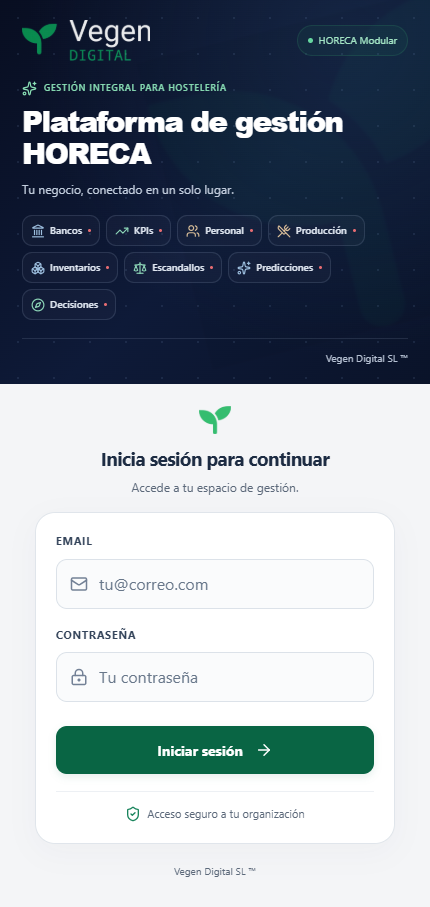
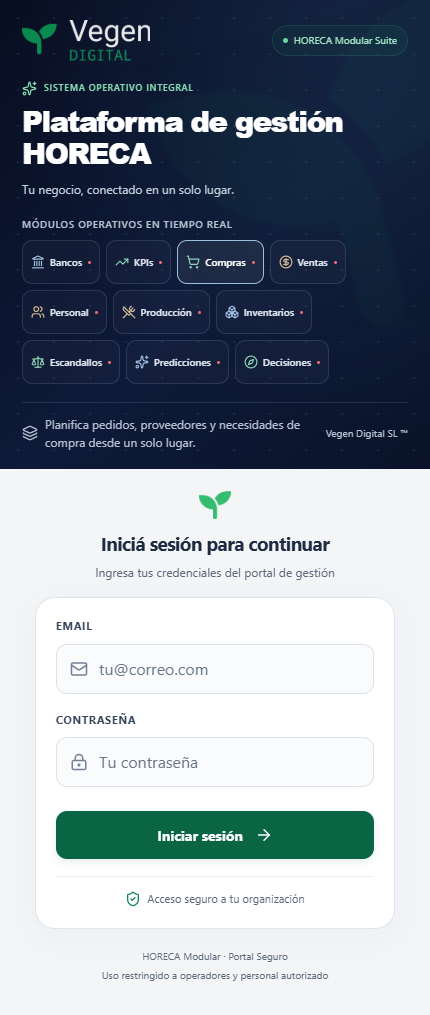
fix(auth-ui): restore approved copy and interactive module descriptions

diff --git a/src/components/access/access.css b/src/components/access/access.css
@@ -20,14 +20,14 @@
 .access-hero h1 span { display: block; }
 .access-tagline { margin: 12px 0 0; color: #c2cddd; font-size: 13px; line-height: 1.6; }
 .access-chips { display: flex; flex-wrap: wrap; gap: 7px; list-style: none; padding: 0; margin: 21px 0 0; }
-.access-chip { display: inline-flex; align-items: center; gap: 7px; padding: 8px 10px; border: 1px solid #8fa2bd30; border-radius: 10px; background: #ffffff06; color: #e1e8f2; font-size: 11px; font-weight: 500; }
+.access-chip { min-height: 44px; font-family: inherit; cursor: pointer; display: inline-flex; align-items: center; gap: 7px; padding: 8px 10px; border: 1px solid #8fa2bd30; border-radius: 10px; background: #ffffff06; color: #e1e8f2; font-size: 11px; font-weight: 500; }
 .access-chip > svg { flex-shrink: 0; }
 .access-chip--blue > svg { color: #9dbfdf; }
 .access-chip--green > svg { color: #8cd5b7; }
 .access-chip--warm > svg { color: #d8bd98; }
 .access-chip-dot { width: 3px; height: 3px; background: #e46b71; border-radius: 50%; margin-left: 1px; }
 .access-hero-footer { border-top: 1px solid #afc1da24; margin-top: 24px; padding-top: 14px; font-size: 10px; color: #b5c0d2; display: flex; justify-content: space-between; gap: 12px; align-items: center; flex-wrap: wrap; }
-.access-hero-footer p { margin: 0; display: flex; gap: 7px; align-items: center; }
+.access-hero-footer p { flex: 1 1 260px; min-width: 0; line-height: 1.5; margin: 0; display: flex; gap: 7px; align-items: center; }
 .access-hero-footer > span { white-space: nowrap; }
 .access-watermark { position: absolute; pointer-events: none; z-index: -1; width: 360px; right: -100px; top: 15px; opacity: .045; transform: rotate(-14deg); filter: blur(1px); }
 .access-watermark .access-brand { width: 100%; }
@@ -74,7 +74,6 @@
   .access-chip { font-size: 10px; gap: 5px; padding: 7px 8px; }
   .access-chip > svg { width: 14px; height: 14px; }
   .access-hero-footer { margin-top: 18px; padding-top: 12px; justify-content: flex-end; }
-  .access-hero-footer p { display: none; }
   .access-panel { padding-top: 22px; }
   .access-panel-header { margin-bottom: 16px; }
   .access-panel-header .access-brand { width: 32px; margin-bottom: 6px; }
@@ -111,3 +110,17 @@
 }
 @media (min-width: 1440px) { .access-portal { grid-template-columns: minmax(0, 1fr) 440px; } }
 @media (prefers-reduced-motion: reduce) { .access-portal * { transition: none; } }
+
+/* Informational module selection; scoped to the access portal. */
+.access-chip[aria-pressed="true"] { border-color: #9dbfdf; background: #ffffff16; color: #fff; }
+.access-chip:hover { background: #ffffff10; }
+.access-modules-heading { margin: 18px 0 8px; color: #b5c0d2; font-size: 10px; font-weight: 600; letter-spacing: .06em; }
+.access-modules-heading + .access-chips { margin-top: 0; }
+.access-hero-footer p svg { flex-shrink: 0; }
+.access-hero-footer p { font-size: 12px; }
+.access-hero-security { display: none; }
+.access-panel-footer p { margin: 4px 0; line-height: 1.5; }
+@media (min-width: 1440px) {
+  .access-hero-security { display: flex; align-items: center; gap: 6px; color: #b5c0d2; font-size: 11px; }
+  .access-hero-security svg { color: #89dfb5; }
+}

diff --git a/src/components/access/CapabilityChips.jsx b/src/components/access/CapabilityChips.jsx
@@ -1,16 +1,28 @@
-import { Landmark, TrendingUp, Users, UtensilsCrossed, Boxes, Scale, Sparkles, Compass } from 'lucide-react';
+import { Landmark, TrendingUp, ShoppingCart, CircleDollarSign, Users, UtensilsCrossed, Boxes, Scale, Sparkles, Compass } from 'lucide-react';
 
 const capabilities = [
-  ['Bancos', Landmark, 'blue'], ['KPIs', TrendingUp, 'green'],
-  ['Personal', Users, 'warm'], ['Producción', UtensilsCrossed, 'warm'],
-  ['Inventarios', Boxes, 'blue'], ['Escandallos', Scale, 'green'],
-  ['Predicciones', Sparkles, 'blue'], ['Decisiones', Compass, 'green'],
+  ['Bancos', Landmark, 'blue', 'Centraliza movimientos bancarios, conciliación y control financiero.'],
+  ['KPIs', TrendingUp, 'green', 'Convierte tus datos operativos en indicadores claros para gestionar mejor.'],
+  ['Compras', ShoppingCart, 'green', 'Planifica pedidos, proveedores y necesidades de compra desde un solo lugar.'],
+  ['Ventas', CircleDollarSign, 'warm', 'Analiza ventas, tickets y rendimiento comercial de tu operación.'],
+  ['Personal', Users, 'warm', 'Organiza equipos, jornadas y datos operativos de tu personal.'],
+  ['Producción', UtensilsCrossed, 'warm', 'Planifica, registra y controla la producción diaria de tu cocina.'],
+  ['Inventarios', Boxes, 'blue', 'Controla existencias, movimientos, mermas y disponibilidad de stock.'],
+  ['Escandallos', Scale, 'green', 'Conoce recetas, costes, rendimientos y márgenes reales de tus productos.'],
+  ['Predicciones', Sparkles, 'blue', 'Anticipa necesidades y tendencias a partir de tus datos operativos.'],
+  ['Decisiones', Compass, 'green', 'Transforma información y predicciones en acciones concretas para tu negocio.'],
 ];
 
-export default function CapabilityChips() {
+export default function CapabilityChips({ selected, onSelect }) {
   return (
     <ul className="access-chips" aria-label="Áreas de gestión HORECA">
-      {capabilities.map(([label, Icon, accent]) => <li className={`access-chip access-chip--${accent}`} key={label}><Icon size={16} aria-hidden="true" /><span>{label}</span><span className="access-chip-dot" aria-hidden="true" /></li>)}
+      {capabilities.map(([label, Icon, accent, description]) => (
+        <li key={label}>
+          <button type="button" className={`access-chip access-chip--${accent}`} aria-pressed={selected === label} aria-controls="access-module-description" onClick={() => onSelect({ label, description })}>
+            <Icon size={16} aria-hidden="true" /><span>{label}</span><span className="access-chip-dot" aria-hidden="true" />
+          </button>
+        </li>
+      ))}
     </ul>
   );
 }

diff --git a/src/components/access/LoginHero.jsx b/src/components/access/LoginHero.jsx
@@ -1,20 +1,24 @@
-import { Layers, Sparkles } from 'lucide-react';
+import { useState } from 'react';
+import { Layers, ShieldCheck, Sparkles } from 'lucide-react';
 import VegenBrand from './VegenBrand';
 import CapabilityChips from './CapabilityChips';
 
 export default function LoginHero() {
+  const [selected, setSelected] = useState(null);
+  const selectCapability = (capability) => setSelected(current => current?.label === capability.label ? null : capability);
   return (
     <section className="access-hero" aria-labelledby="access-title">
       <div className="access-watermark" aria-hidden="true"><VegenBrand leaf negative decorative /></div>
       <div className="access-hero-content">
-        <header className="access-hero-header"><VegenBrand negative /><span className="access-suite"><span aria-hidden="true" />HORECA Modular</span></header>
+        <header className="access-hero-header"><VegenBrand negative /><span className="access-suite"><span aria-hidden="true" />HORECA Modular Suite</span><span className="access-hero-security"><ShieldCheck size={16} aria-hidden="true" />Acceso seguro cifrado</span></header>
         <div className="access-hero-copy">
-          <p className="access-kicker"><Sparkles size={15} aria-hidden="true" />Gestión integral para hostelería</p>
+          <p className="access-kicker"><Sparkles size={15} aria-hidden="true" />SISTEMA OPERATIVO INTEGRAL</p>
           <h1 id="access-title">Plataforma de gestión <span>HORECA</span></h1>
           <p className="access-tagline">Tu negocio, conectado en un solo lugar.</p>
-          <CapabilityChips />
+          <h2 className="access-modules-heading">MÓDULOS OPERATIVOS EN TIEMPO REAL</h2>
+          <CapabilityChips selected={selected?.label} onSelect={selectCapability} />
         </div>
-        <footer className="access-hero-footer"><p><Layers size={16} aria-hidden="true" />Cada área de tu negocio, conectada.</p><span>Vegen Digital SL ™</span></footer>
+        <footer className="access-hero-footer"><p id="access-module-description" aria-live="polite" aria-atomic="true"><Layers size={16} aria-hidden="true" /><span>{selected?.description || 'Módulos integrados para sincronizar cada área operativa de tu restaurante.'}</span></p><span>Vegen Digital SL ™</span></footer>
       </div>
     </section>
   );

diff --git a/src/components/Login.jsx b/src/components/Login.jsx
@@ -106,8 +106,8 @@ const Login = () => {
     }
   };
 
-  const title = isPasswordRecovery ? 'Configura tu contraseña' : isRecoveryRequest ? 'Recupera tu acceso' : 'Inicia sesión para continuar';
-  const description = isPasswordRecovery ? 'Elige una contraseña para tu cuenta.' : isRecoveryRequest ? 'Recibe un enlace seguro en tu correo.' : 'Accede a tu espacio de gestión.';
+  const title = isPasswordRecovery ? 'Configura tu contraseña' : isRecoveryRequest ? 'Recupera tu acceso' : 'Iniciá sesión para continuar';
+  const description = isPasswordRecovery ? 'Elige una contraseña para tu cuenta.' : isRecoveryRequest ? 'Recibe un enlace seguro en tu correo.' : 'Ingresa tus credenciales del portal de gestión';
 
   return (
     <main className="access-portal">

diff --git a/src/components/access/LoginPanel.jsx b/src/components/access/LoginPanel.jsx
@@ -6,7 +6,7 @@ export default function LoginPanel({ title, description, children }) {
       <div className="access-panel-inner">
         <header className="access-panel-header"><VegenBrand leaf /><h2 id="access-panel-title">{title}</h2><p>{description}</p></header>
         <div className="access-card">{children}</div>
-        <p className="access-panel-footer">Vegen Digital SL ™</p>
+        <div className="access-panel-footer"><p>HORECA Modular · Portal Seguro</p><p>Uso restringido a operadores y personal autorizado</p></div>
       </div>
     </section>
   );

diff --git a/docs/LOGIN-HOME-REDESIGN-REVIEW.md b/docs/LOGIN-HOME-REDESIGN-REVIEW.md
@@ -1,45 +1,28 @@
-# Login / access portal redesign review
+# Login home final polish review
 
-Date: 2026-10-15. Branch: `feature/login-home-redesign`. Design source: `683a250ae021ebcce1b22a68b60484ce760890a7`, based on DEV `89abfb07c8d0fb2c45e6865da64515669c2d1057`.
+Date: 2026-10-15. Branch: `feature/login-home-redesign`. Base: `f1b9eb16ad02ae97f548790f24096ab578526498`.
 
-## Result
+The approved portal layout, logo assets and watermark remain. Restored the exact requested hero/login wording, Suite badge, desktop security label and module heading. All ten descriptive chips now use native buttons with 44px minimum targets, `aria-pressed`, a subtle selected border/background and one selection at a time. Clicking the selected chip clears it, matching the reference. The footer description is visible on mobile and announced through a polite atomic live region. No navigation or authorization is performed.
 
-The real `src/components/Login.jsx` now presents a responsive blue-gradient hero, eight capability chips, the official Vegen image with CSS-only negative treatment, a subtle watermark from the same image, and a compact access panel. Separate presentation components live in `src/components/access/`; their CSS is scoped to the access portal. Mobile composition is deliberately shorter than the standalone design so the submit button fits the initial 844px-high viewport at 375, 390 and 430px widths. Inputs use 16px text, autocomplete, explicit labels and 48px minimum control height.
-
-The eight chips are descriptive, not navigation or a grant of module access. The reference directory remains intact and is never imported into runtime. No reference demo credentials, fake dashboard, simulated authentication, hand-drawn reference logo or remember-me behavior was imported. The actual PNG is unchanged; CSS crops its whitespace/leaf, blends away its white background and adapts the dark wordmark on blue while retaining green accents. No new logo or edited bitmap was created.
-
-The normal login has no "Solicitar un nuevo enlace de acceso" section or replacement forgot-password control. Controlled recovery remains available on the existing `/reset-password` path when no recovery session is active; a valid recovery/invite callback still displays the new-password form. `requestPasswordReset` remains unchanged in AuthContext. Errors retain accessible feedback with friendly Spanish messages instead of backend internals. OAuth remains available when the password flags are disabled, including after recoverable errors.
-
-## Preserved boundaries
-
-Compared with the supplied source commit, these paths are unchanged: `src/App.jsx`, `src/main.jsx`, `src/index.css`, `src/context/`, `src/lib/supabase.js`, package/lock files, Vite configuration, all business modules, backend APIs, server code, Supabase configuration/migrations and `design-reference/login-home/`.
-
-The DEV `VITE_DEV_PASSWORD_AUTH` and PROD `VITE_PASSWORD_AUTH` selection expressions remain unchanged. Login calls the same `loginWithPassword` and `loginWithProvider` functions; recovery calls the same `requestPasswordReset` and `updatePassword` functions. Session restore, PKCE/implicit callback handling, logout and tenant authorization remain in the existing runtime. No service keys or new authorization shortcuts were introduced. Test fixture entries are isolated from the production application and use the real AuthProvider/SDK with intercepted network responses.
+AuthContext, Supabase client, auth handlers and flags, callback/recovery logic, App/main, global CSS, dependencies, backend, migrations and business modules are unchanged. Login.jsx changes only the two normal-login text strings. No demo credentials or mock login were added to the application.
 
 ## Validation
 
-| Check | Result |
-| --- | --- |
-| `npm run lint` | PASS: zero errors, five preexisting unrelated warnings |
-| `npm run typecheck` | PASS |
-| `npm run test:run` | PASS: 49 files, 614 tests passed, one existing test skipped |
-| `npm run build` | PASS; existing large-chunk warning and plugin-timing advisory remain |
-| Local browser regression | PASS: 16 checks; no page exceptions |
-| Widths 375 / 390 / 430 / 768 / 1024 / 1440 | PASS: no horizontal overflow; screenshot review |
-| Keyboard-reduced viewport | PASS: password focus and submit scroll reachability at 390×500 |
-| Protected source/config diff | PASS: all paths listed above unchanged |
-
-Lint warnings remain in Configuracion, Inventory chart hooks/store and Presence. Browser tooling also reports an outdated Browserslist dataset; dependencies were not changed to hide that warning.
-
-Browser checks run actual Login, AuthProvider and Supabase client against **synthetic intercepted HTTP responses**. They cover DEV/PROD password flags and request payloads, session restoration without a second password request, logout, denial of tenant access when an active profile is missing, same-origin recovery redirect, expired-link feedback, PKCE code exchange with browser-held verifier, recovery/invite implicit callbacks, actual password-update request and return path, OAuth provider redirects, and sanitized credential/recovery errors. No live login, email delivery, business write, tenant membership change or hosted Supabase availability is claimed or needed for this UI regression check. Broader positive/negative tenant authorization tests remain in the passing existing suite.
-
-Run the browser suite with Playwright available: `node tests/browser/access_portal.mjs`. It accepts `PLAYWRIGHT_MODULE`, `ACCESS_BROWSER_CHANNEL` (defaults to Chrome), and `ACCESS_BROWSER_ARTIFACTS`. In this workspace `PLAYWRIGHT_MODULE=../../.local-data/tooling/node_modules/playwright/index.mjs` points to the existing local browser tooling. The suite starts/stops its own isolated Vite servers on ports 5191–5193. It never calls a live Supabase endpoint. Raw snapshots and measurements are regenerated under `.local-data/access-portal`.
+- `npm run lint`: PASS, five existing unrelated warnings.
+- `npm run typecheck`: PASS.
+- `npm run test:run`: FAIL, LastAppRateBudget.test.ts beforeAll exceeds its existing 30-second timeout; 48 files pass, 607 tests pass, eight skipped. This timeout also occurred before this polish. No business tests or timeout settings were changed.
+- `npm run build`: PASS, existing chunk-size/plugin-timing and Browserslist advisories.
+- Access portal browser regression: PASS, 16 checks, no page exceptions. Real Login/AuthProvider/SDK with intercepted synthetic HTTP responses; no live authentication or email delivery is claimed.
+- Browser coverage: exact copy, all ten modules including Compras/Ventas, each approved description, one selected state, default/toggle behavior, keyboard Enter/Tab/Space, touch selection, preserved password/session/recovery/callback/OAuth paths.
+- 375, 390, 430, 768, 1024 and 1440px: PASS, wrapping chips, visible selection/description, no horizontal overflow, 44px targets and 16px input text. The extra chips and readable mobile description require vertical scrolling; submit reachability is verified, including a 390x500 viewport.
+- Protected-path diff and `git diff --check`: PASS.
 
 ## Visual evidence
 
-The committed [browser measurements](login-home-redesign/evidence.json) and screenshots show the production flag configuration with synthetic test transport, not a production deployment:
+[Measurements](login-home-redesign/evidence.json) and screenshots are from local synthetic transport, with Compras selected:
 
-- [375px](login-home-redesign/production-375.png), [390px](login-home-redesign/production-390.png), [430px](login-home-redesign/production-430.png)
-- [768px](login-home-redesign/production-768.png), [1024px](login-home-redesign/production-1024.png), [1440px](login-home-redesign/production-1440.png)
+[375px](login-home-redesign/production-375.png), [390px](login-home-redesign/production-390.png), [430px](login-home-redesign/production-430.png), [768px](login-home-redesign/production-768.png), [1024px](login-home-redesign/production-1024.png), [1440px](login-home-redesign/production-1440.png).
 
-Ready for Product Owner visual review on this feature branch. No merge to DEV/main and no deployment or database action is included. The Product Owner's visual acceptance remains separate from these automated/local checks.
+Run: `PLAYWRIGHT_MODULE=../../.local-data/tooling/node_modules/playwright/index.mjs node tests/browser/access_portal.mjs` (PowerShell: set the environment variable first). Chrome requires process-launch permission. The suite owns Vite ports 5191-5193 and writes `.local-data/access-portal`.
+
+Ready for visual review on the feature branch. No merge, deployment or database action.
